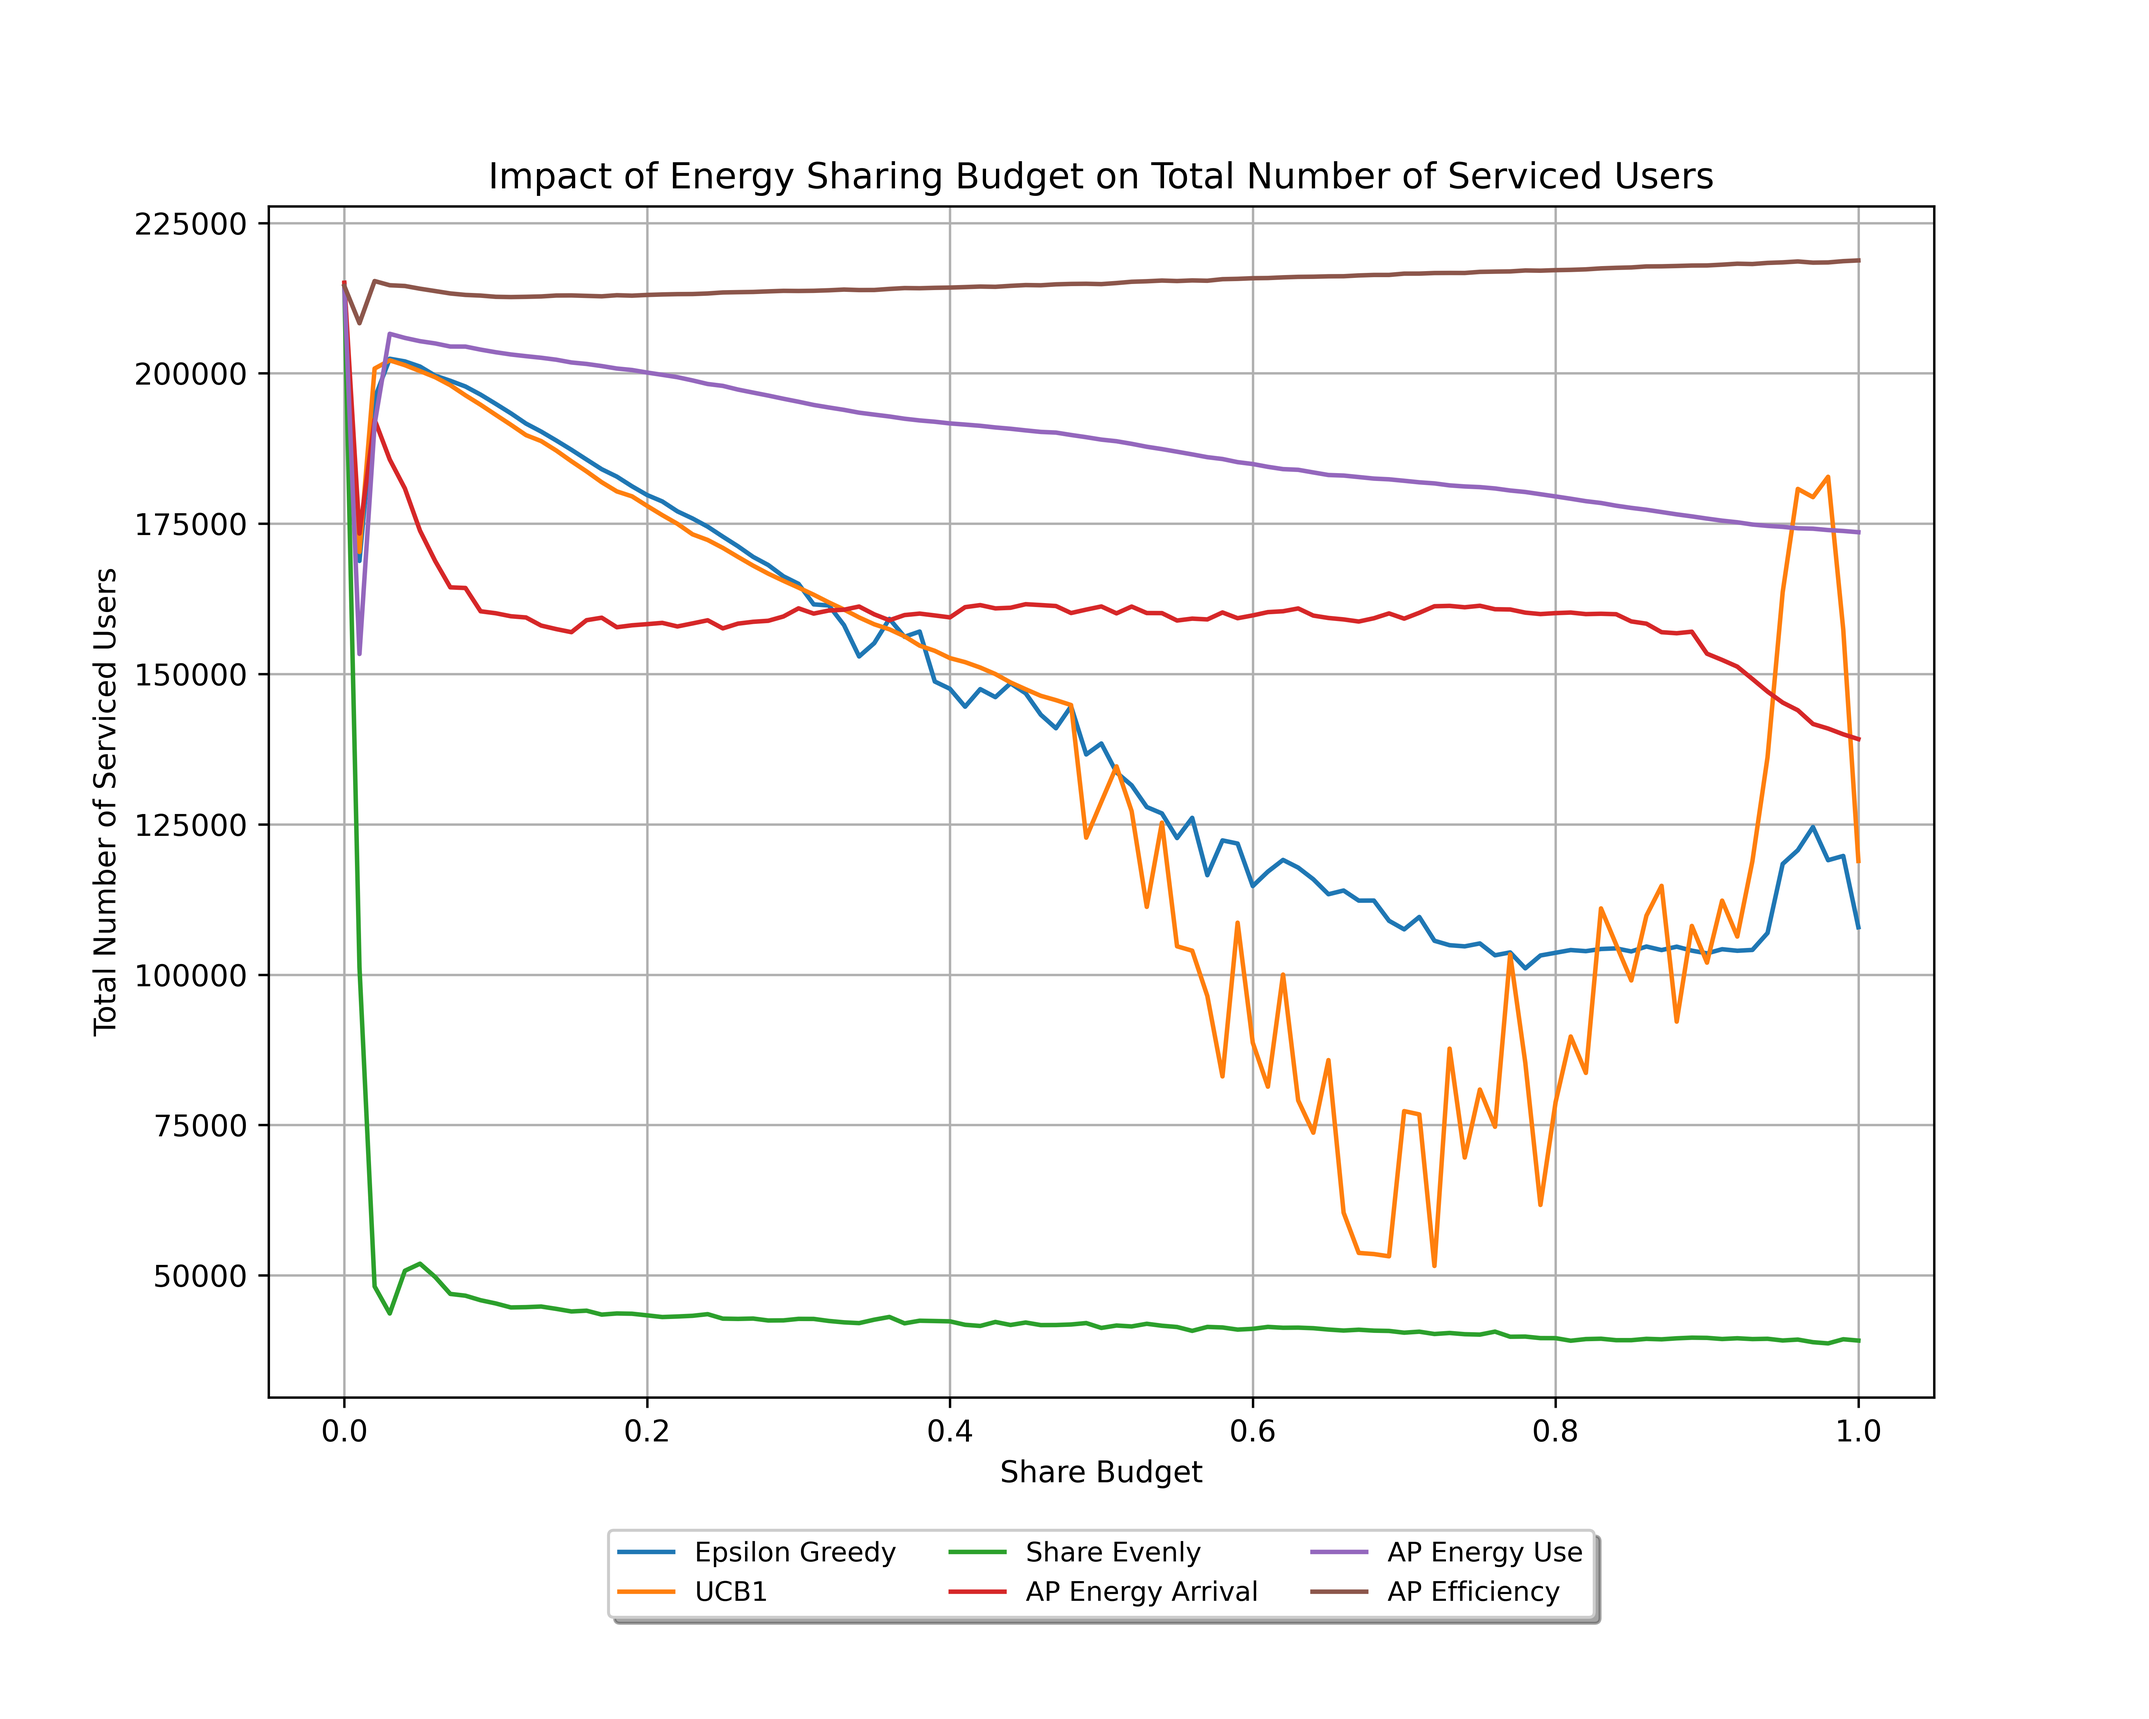
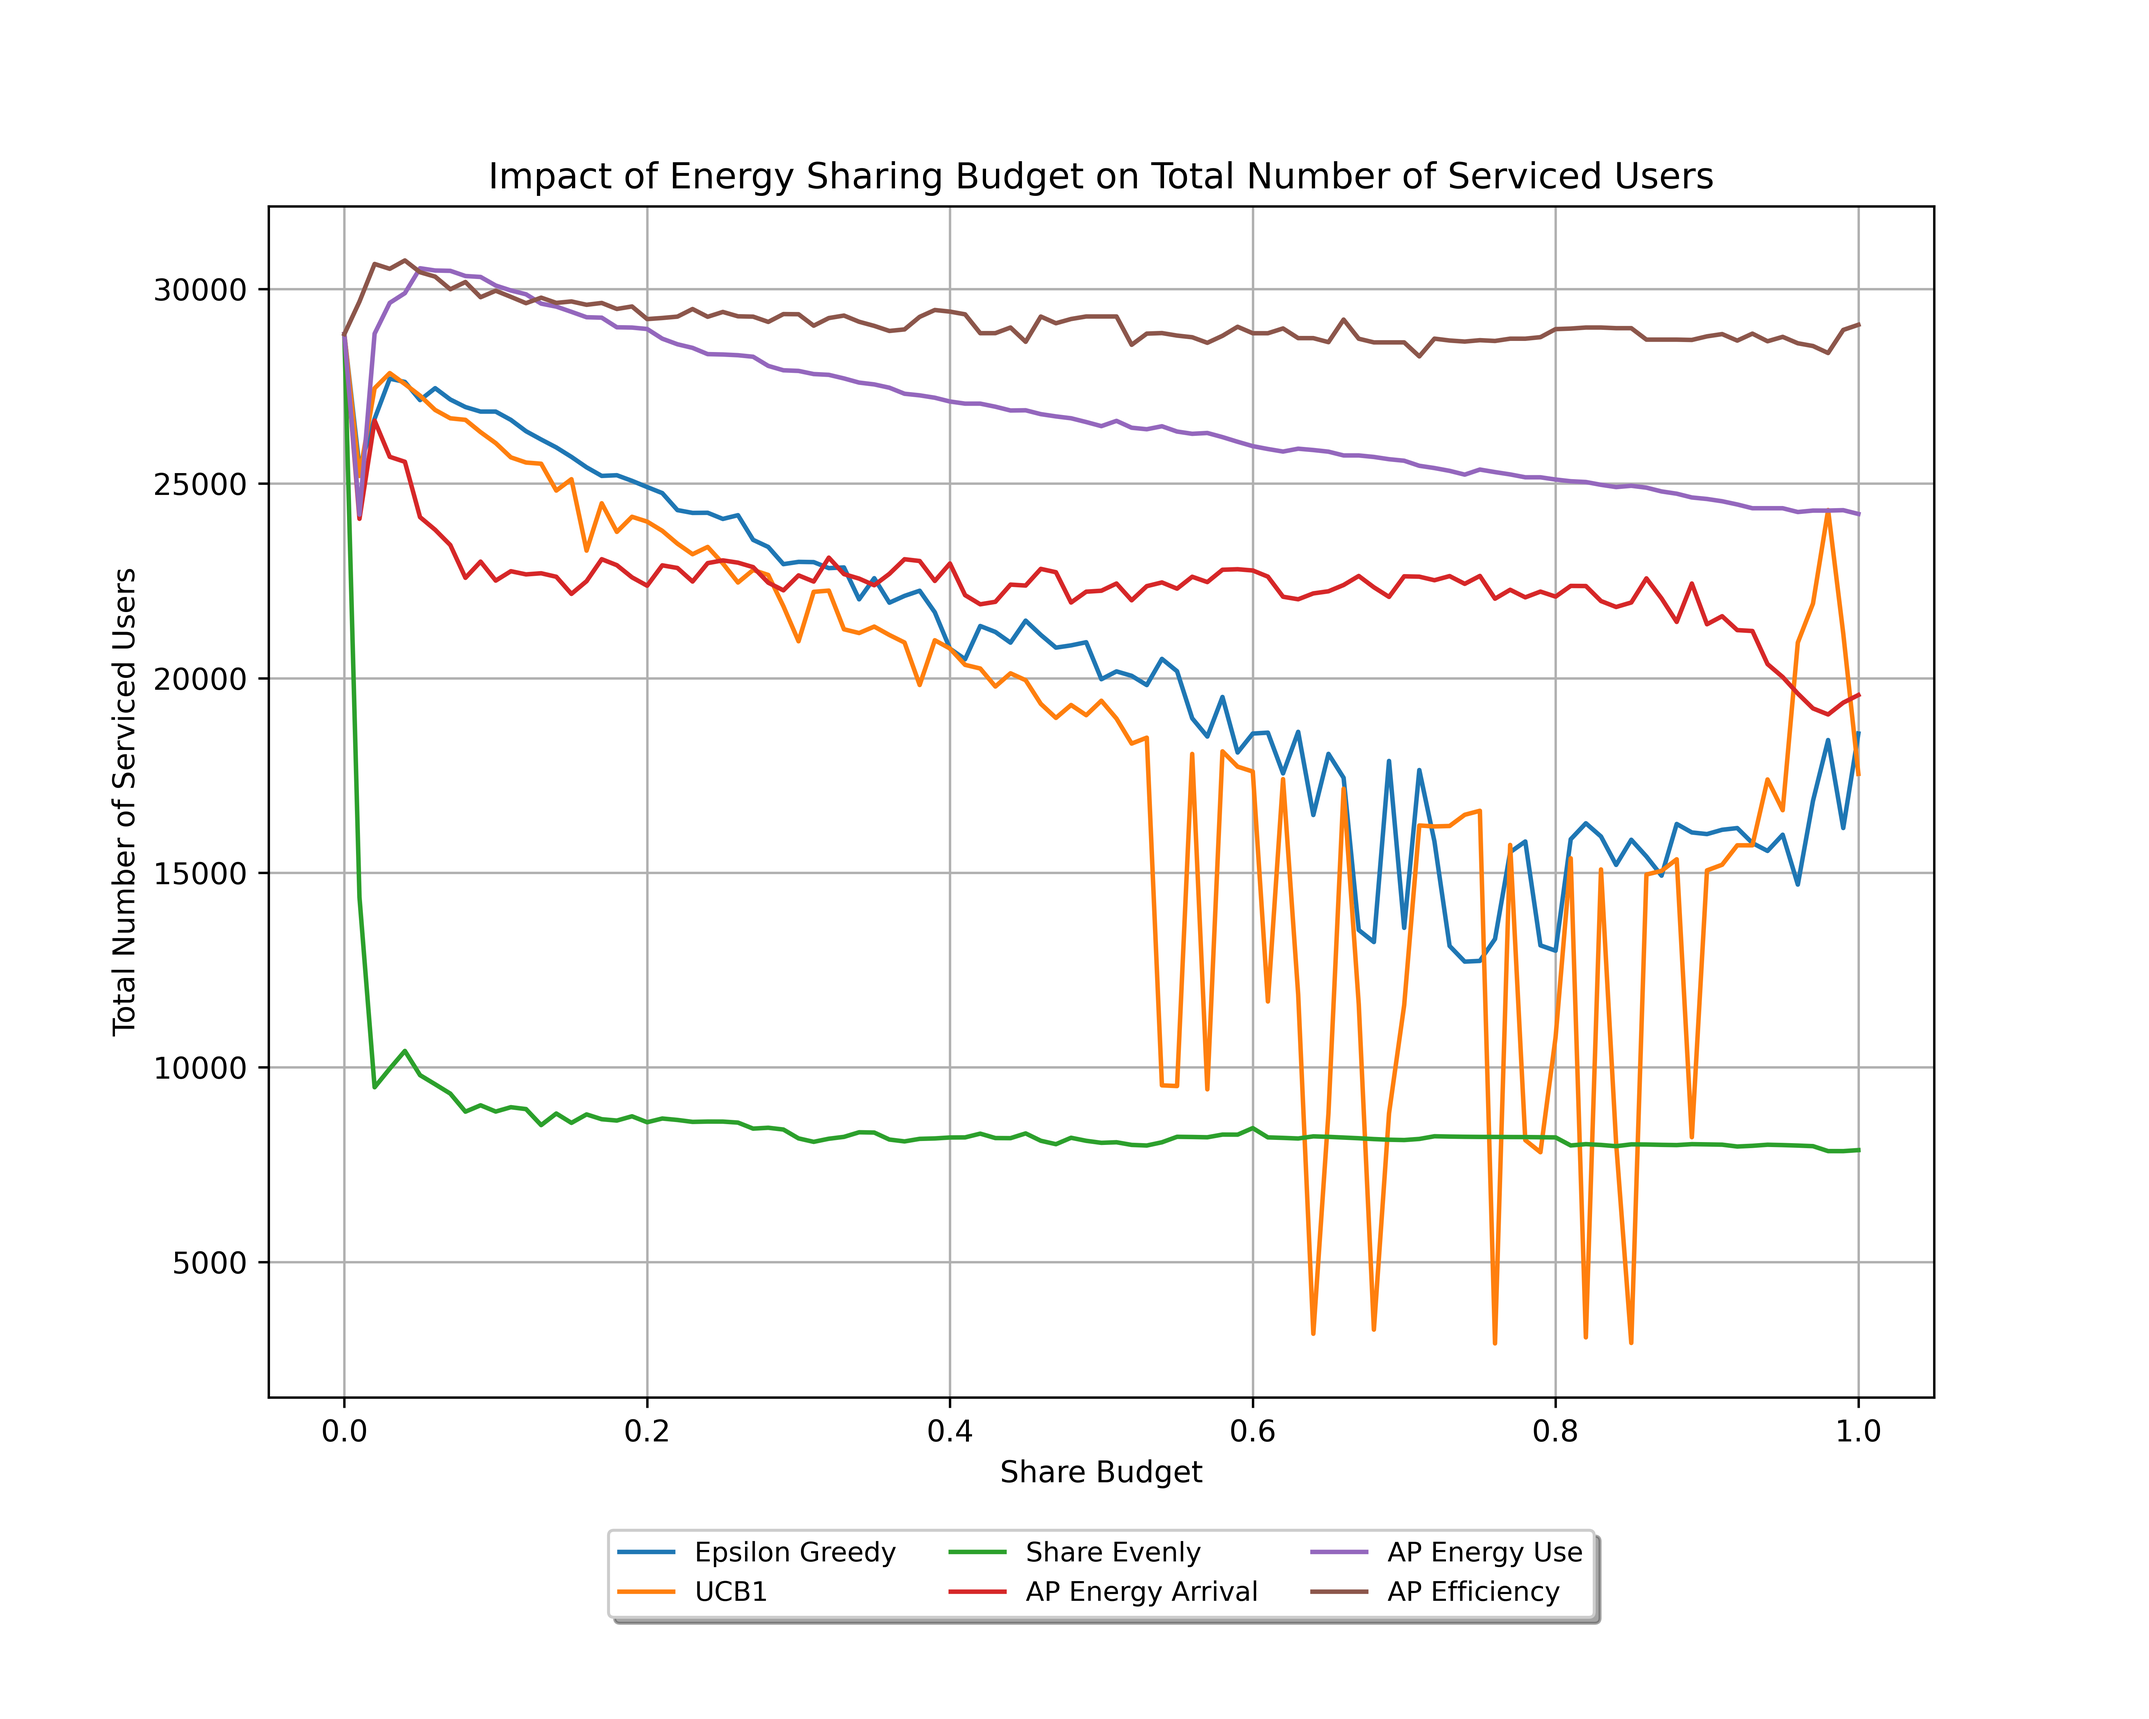
Generated 3 month data.

diff --git a/main.py b/main.py
@@ -43,7 +43,7 @@ def initVariable():
         "AP_TOTAL" : 5,
         "USR_TOTAL" : 100,
         "POWER_RECEIVED_DBM" : -70, 
-        "TIME_MAX" : 8064,
+        "TIME_MAX" : 24192,
         "DIST_MOVEUSER_MAX" : 5,
         "ENERGY_POLICY" : 0,
         "SHARE_ENERGY" : 0,
@@ -68,13 +68,15 @@ def initVariable():
 
     # Generating Users using Possion Point Process Placment
     usr_x, usr_y = generateUsersPPP(GRID_SIZE, USR_TOTAL / GRID_SIZE / GRID_SIZE)
-    init_vars["usr_mov_loc_ppp"] = genUserMovementLoc(len(usr_x), init_vars["TIME_MAX"], init_vars["DIST_MOVEUSER_MAX"], init_vars["GRID_SIZE"], 1, [usr_x, usr_y]) 
+    init_vars["coord_start_x"] = usr_x 
+    init_vars["coord_start_y"] = usr_y 
+    # init_vars["usr_mov_loc_ppp"] = genUserMovementLoc(len(usr_x), init_vars["TIME_MAX"], init_vars["DIST_MOVEUSER_MAX"], init_vars["GRID_SIZE"], 1, [usr_x, usr_y]) 
 
     gen_usrlist_ppp = [User(i, Location(usr_x[i], usr_y[i])) for i in range(len(usr_x))]
 
     # Generating Users using Randint Placment
-    init_vars["usr_mov_loc"] = genUserMovementLoc(USR_TOTAL, init_vars["TIME_MAX"], init_vars["DIST_MOVEUSER_MAX"], init_vars["GRID_SIZE"], 0, [0, 0]) 
-    gen_usrlist = [User(index, Location(init_vars["usr_mov_loc"][index][0][0], init_vars["usr_mov_loc"][index][0][1])) for index in range(USR_TOTAL)]
+    usr_mov_loc = genUserMovementLoc(USR_TOTAL, init_vars["TIME_MAX"], init_vars["DIST_MOVEUSER_MAX"], init_vars["GRID_SIZE"], 0, [0, 0]) 
+    gen_usrlist = [User(index, Location(usr_mov_loc[index][0][0], usr_mov_loc[index][0][1])) for index in range(USR_TOTAL)]
 
     return init_vars, gen_aplist, gen_usrlist, gen_usrlist_ppp
 
@@ -110,20 +112,20 @@ def main():
     # plt_loadbalance = loadBalancing(init_vars, aplist, usrlist_ppp)
     # plt_loadbalance.savefig('figures/loadbalance.png')
 
-    plt_seriesratio = seriesRatioMP(deepcopy(init_vars), aplist, usrlist_ppp)
-    plt_seriesratio.savefig('figures/seriesratiomp.png')
+    # plt_seriesratio = seriesRatioMP(deepcopy(init_vars), aplist, usrlist_ppp)
+    # plt_seriesratio.savefig('figures/seriesratiomp.png')
 
     # plt_budgettest = shareBudget(init_vars, aplist, usrlist_ppp)
     # plt_budgettest.savefig('figures/sharebudget.png')
 
-    plt_mab = mabMP(deepcopy(init_vars), aplist, usrlist_ppp)
-    plt_mab.savefig('figures/mab_epsilongreedyMP.png')
+    # plt_mab = mabMP(deepcopy(init_vars), aplist, usrlist_ppp)
+    # plt_mab.savefig('figures/mab_epsilongreedyMP.png')
 
     # plt_mp = multiSimulation(init_vars, aplist, usrlist_ppp)
     # plt_mp.savefig('figures/mpsharebudget.png')
 
-    # plt_compare = algorithmCompare(deepcopy(init_vars), aplist, usrlist_ppp)
-    # plt_compare.savefig('figures/algorithmcompare.png')
+    plt_compare = algorithmCompare(deepcopy(init_vars), aplist, usrlist_ppp)
+    plt_compare.savefig('figures/algorithmcompare3mth.png')
 
 if __name__ == "__main__":
     main()

diff --git a/network_simulator/components.py b/network_simulator/components.py
@@ -3,7 +3,7 @@ from random import randint
 from copy import deepcopy
 from operator import itemgetter
 from . import envs
-from .helpers import calcDistance
+from .helpers import calcDistance, genUserMovementLoc
 from .discreteMarkov import energyArrivalOutput
 from .energyPolicy import energyPolicy
 from .energyDistribution import energyDistributeSel
@@ -204,8 +204,8 @@ class User:
 
     # Move the user to a new location
     def moveUser(self, time):
-        self.location.x = usr_mov_loc[self.id][time][0]
-        self.location.y = usr_mov_loc[self.id][time][1]
+        self.location.x = usr_mov_loc_sim[self.id][time][0]
+        self.location.y = usr_mov_loc_sim[self.id][time][1]
 
     def getLoc(self):
         return [self.location.x, self.location.y]
@@ -225,7 +225,7 @@ def initialiseEnv(init_vars):
 
     global GRID_SIZE, ENERGY_STORE_MAX, ENERGY_GEN_MAX, AP_TOTAL, USR_TOTAL, POWER_RECEIVED_REQUIRED, DIST_MOVEUSER_MAX, TIME_MAX, PANEL_SIZE, USR_LIMIT
     global ENERGY_POLICY, SHARE_ENERGY, LOAD_BALANCE, ENERGY_BUDGET, SMART_PARAM
-    global markovstates, descendunit_arr, usr_mov_loc
+    global markovstates, descendunit_arr, usr_mov_loc_sim
 
     GRID_SIZE = init_vars["GRID_SIZE"]
     ENERGY_STORE_MAX = init_vars["ENERGY_STORE_MAX"]
@@ -245,9 +245,10 @@ def initialiseEnv(init_vars):
 
     markovstates = init_vars["markov"]
     descendunit_arr = init_vars["descendunit_arr"]
-    usr_mov_loc = init_vars["usr_mov_loc_ppp"]
+    # usr_mov_loc = init_vars["usr_mov_loc_ppp"]
 
     _history = generateHistory(AP_TOTAL)
+    usr_mov_loc_sim = genUserMovementLoc(len(init_vars["coord_start_x"]), TIME_MAX, DIST_MOVEUSER_MAX, GRID_SIZE, 1, [init_vars["coord_start_x"], init_vars["coord_start_y"]]) 
 
     return _history
 

diff --git a/network_simulator/test/testAlgorithmCompare.py b/network_simulator/test/testAlgorithmCompare.py
@@ -76,15 +76,16 @@ def algorithmCompare(init_vars, aplist, usrlist):
             for ratio in sharebudget:
                 init_vars["ENERGY_BUDGET"] = ratio
 
-                pool = Pool()
+                pool = Pool(10)
                 _serviced_users = [pool.apply_async(main, ()) for run in total_runs]
 
                 _avg_serviced_users.append(sum([result.get() for result in _serviced_users]) / len(total_runs))
+                bar.update(1)
+                pool.close()
+                pool.join()
 
             _output[axes["param"]] = { "result" : _avg_serviced_users }
-            bar.update(1)
-            # pool.close()
-            # pool.join()
+
         bar.close()
 
         _output["x-axis"] = { 

diff --git a/network_simulator/helpers.py b/network_simulator/helpers.py
@@ -157,4 +157,4 @@ def genUserMovementLoc(length, time, limit, GRID_SIZE, ppp, pppcoord):
     return _new_coord_u
 
 # if __name__ == "__main__":
-#     print(genUserMovementLoc(5, 10, 10, 30, 0, [0, 0]))
+#     genUserMovementLoc(5, 8064, 5, 50, 0, [0, 0])

diff --git a/network_simulator/test/testSeriesRatioMP.py b/network_simulator/test/testSeriesRatioMP.py
@@ -19,7 +19,7 @@ def seriesRatioMP(init_vars, aplist, usrlist):
 
     plot_from_saved = 0
     geometric_ratio = np.arange(0.01, 0.99, 0.01)
-    total_runs = range(20)
+    total_runs = range(10)
     _output = {}
 
 
